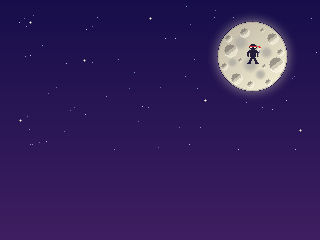
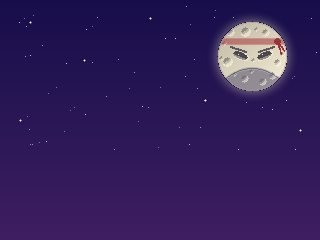
Add files via upload

Changed region(s): [[0.6875, 0.1167, 0.9062, 0.3792]]

diff --git a/make_title_moon.py b/make_title_moon.py
@@ -1,4 +1,4 @@
-"""Title background: night sky with a detailed cratered moon and a ninja silhouette on it.
+"""Title background: night sky with a cratered moon whose craters make a NINJA FACE (headband, angry eyes, mask).
 Run from the project folder:  python3 make_title_moon.py   (writes public/assets/ui/title-bg.png, 320x240)
 """
 import math, random
@@ -50,10 +50,12 @@ cream = (240, 233, 208)
 def mix(a, b, t): return tuple(round(a[i] + (b[i] - a[i]) * t) for i in range(3))
 
 # darker "seas" (maria): soft blobs
-seas = [(-12, -14, 11), (-2, 8, 12), (14, -4, 9), (-20, 6, 7), (8, 18, 8)]
+seas = []  # the face is drawn with the headband and the mask below, not with seas
 craters = [  # (dx, dy, radius)
-    (-22, -6, 6), (20, -18, 5), (-8, -24, 4), (24, 8, 7), (4, -8, 3), (-16, 22, 5), (16, 26, 3),
-    (-28, 10, 3), (28, -4, 3), (-2, 28, 3), (10, -26, 2), (-24, -18, 3), (30, 18, 2), (-12, 4, 2), (12, 10, 2),
+    # (the eyes, brows, headband knot and mask are drawn by hand below)
+    # a few plain craters on the cloth and the sky side
+    (-25, 5, 4), (25, 6, 3), (-7, -25, 4), (13, -24, 3), (-28, -13, 2), (1, 4, 2), (-31, 2, 2), (30, -2, 2),
+    (-8, 22, 3), (10, 25, 3), (-18, 18, 2), (20, 19, 3), (-22, -24, 3), (4, -27, 2), (-1, 15, 2),
 ]
 def sea_amount(dx, dy):
     a = 0.0
@@ -62,6 +64,12 @@ def sea_amount(dx, dy):
         if d < r:
             a = max(a, 1 - d / r)
     return a
+
+def band(dx, dy):
+    # (headband amount, mask amount): soft edged
+    hb = max(0.0, min(1.0, 1 - (abs(dy + 15) - 2.5) / 1.5)) if abs(dx) < MR else 0.0
+    mk = max(0.0, min(1.0, (dy - (11 + dx * dx / 70.0)) / 2.0 + 0.5))
+    return hb, mk
 
 moon = {}
 for y in range(MCY - MR, MCY + MR + 1):
@@ -77,6 +85,11 @@ for y in range(MCY - MR, MCY + MR + 1):
         s = sea_amount(dx, dy)
         if s > 0.25:
             col = mix(col, (176, 172, 164), min(1, (s - 0.25) * 2.2) * 0.85)
+        hb, mk = band(dx, dy)
+        if hb > 0:
+            col = mix(col, (176, 70, 74), hb * 0.62)  # red headband
+        if mk > 0:
+            col = mix(col, (112, 108, 128), mk * 0.72)  # dark cloth mask over the lower face
         # a soft darker rim at the very edge
         if d > MR - 1.6:
             col = mix(col, (160, 152, 140), 0.5)
@@ -103,36 +116,52 @@ for cdx, cdy, r in craters:
             elif d <= r + 1.1 and (ox * LIGHT[0] + oy * LIGHT[1]) < 0 and r >= 3:
                 moon[(x, y)] = mix(base, (255, 252, 238), 0.55)  # raised rim catching the light
 
-# ---- the ninja on the moon ----
-NINJA = [
-    "......kkkk......",
-    ".....kkkkkk.....",
-    "....rrrrrrrr.rr.",
-    "....kwwkkwwk..rr",
-    ".....kkkkkk.....",
-    "......kkkk......",
-    "....kkkkkkkk..g.",
-    "...kkkkkkkkkk.g.",
-    "..kkkkkkkkkkkkg.",
-    "..kk.kkkkkk.kg..",
-    "..kk.kkkkkk.kg..",
-    "..kk.kkkkkk.k...",
-    "..gk.kkkkkk.kg..",
-    "......kkkk......",
-    ".....kkkkkk.....",
-    ".....kk..kk.....",
-    "....kkk..kkk....",
-    "....kk....kk....",
-    "...kkk....kkk...",
-    "..kkkk....kkkk..",
-]
-PAL = {'k': (34, 28, 58), 'r': (214, 44, 44), 'w': (250, 244, 225), 'g': (150, 150, 168)}
-nx0, ny0 = MCX - 8 + 1, MCY - 11 - 1
-for j, row in enumerate(NINJA):
-    for i, ch in enumerate(row):
-        if ch == '.':
-            continue
-        moon[(nx0 + i, ny0 + j)] = PAL[ch]
+
+# ---- the face, drawn by hand on top of the craters ----
+def put(x, y, col, t=1.0):
+    if (x, y) in moon:
+        moon[(x, y)] = mix(moon[(x, y)], col, t)
+def ellipse(cx, cy, ax, ay, ang, fill, rim):
+    ca, sa = math.cos(ang), math.sin(ang)
+    for y in range(cy - 10, cy + 11):
+        for x in range(cx - 10, cx + 11):
+            ox, oy = x - cx, y - cy
+            u, v = ox * ca + oy * sa, -ox * sa + oy * ca
+            q = (u / ax) ** 2 + (v / ay) ** 2
+            if q <= 1:
+                put(x, y, fill, 0.92)
+                if v > ay * 0.35:  # lit lower wall, like the other craters
+                    put(x, y, (255, 250, 232), 0.4)
+            elif q <= 1.5 and (ox * LIGHT[0] + oy * LIGHT[1]) < 0:
+                put(x, y, rim, 0.5)
+# fierce slanted eyes: outer ends up, inner ends down
+ellipse(MCX - 12, MCY - 1, 7.5, 3.4, math.radians(22), (64, 58, 70), (255, 252, 238))
+ellipse(MCX + 12, MCY - 1, 7.5, 3.4, math.radians(-22), (64, 58, 70), (255, 252, 238))
+# a tiny bright glint in each eye
+for gx in (-14, 10):
+    put(MCX + gx, MCY - 2, (255, 250, 235), 0.9)
+# thick angry brows
+def line(x0, y0, x1, y1, col, w=2, t=0.85):
+    n = max(abs(x1 - x0), abs(y1 - y0)) * 2
+    for i in range(n + 1):
+        x = x0 + (x1 - x0) * i / n; y = y0 + (y1 - y0) * i / n
+        for k in range(w):
+            put(round(x), round(y) + k, col, t)
+line(MCX - 22, MCY - 10, MCX - 6, MCY - 5, (84, 78, 84))
+line(MCX + 22, MCY - 10, MCX + 6, MCY - 5, (84, 78, 84))
+# the headband knot on the right, with two tails
+for (kx, ky, kr) in ((MCX + 25, MCY - 15, 3),):
+    for y in range(ky - kr, ky + kr + 1):
+        for x in range(kx - kr, kx + kr + 1):
+            if math.hypot(x - kx, y - ky) <= kr + 0.3: put(x, y, (150, 44, 52), 0.9)
+line(MCX + 27, MCY - 13, MCX + 32, MCY - 6, (150, 44, 52), 2, 0.9)
+line(MCX + 26, MCY - 12, MCX + 29, MCY - 3, (150, 44, 52), 2, 0.9)
+# a cloth fold across the mask
+for x in range(MCX - 26, MCX + 27):
+    dx = x - MCX
+    y = MCY + round(11 + dx * dx / 70.0) + 1
+    put(x, y, (86, 82, 100), 0.55)
+    put(x, y + 1, (255, 252, 240), 0.18)
 
 for (x, y), c in moon.items():
     px[x, y] = c
